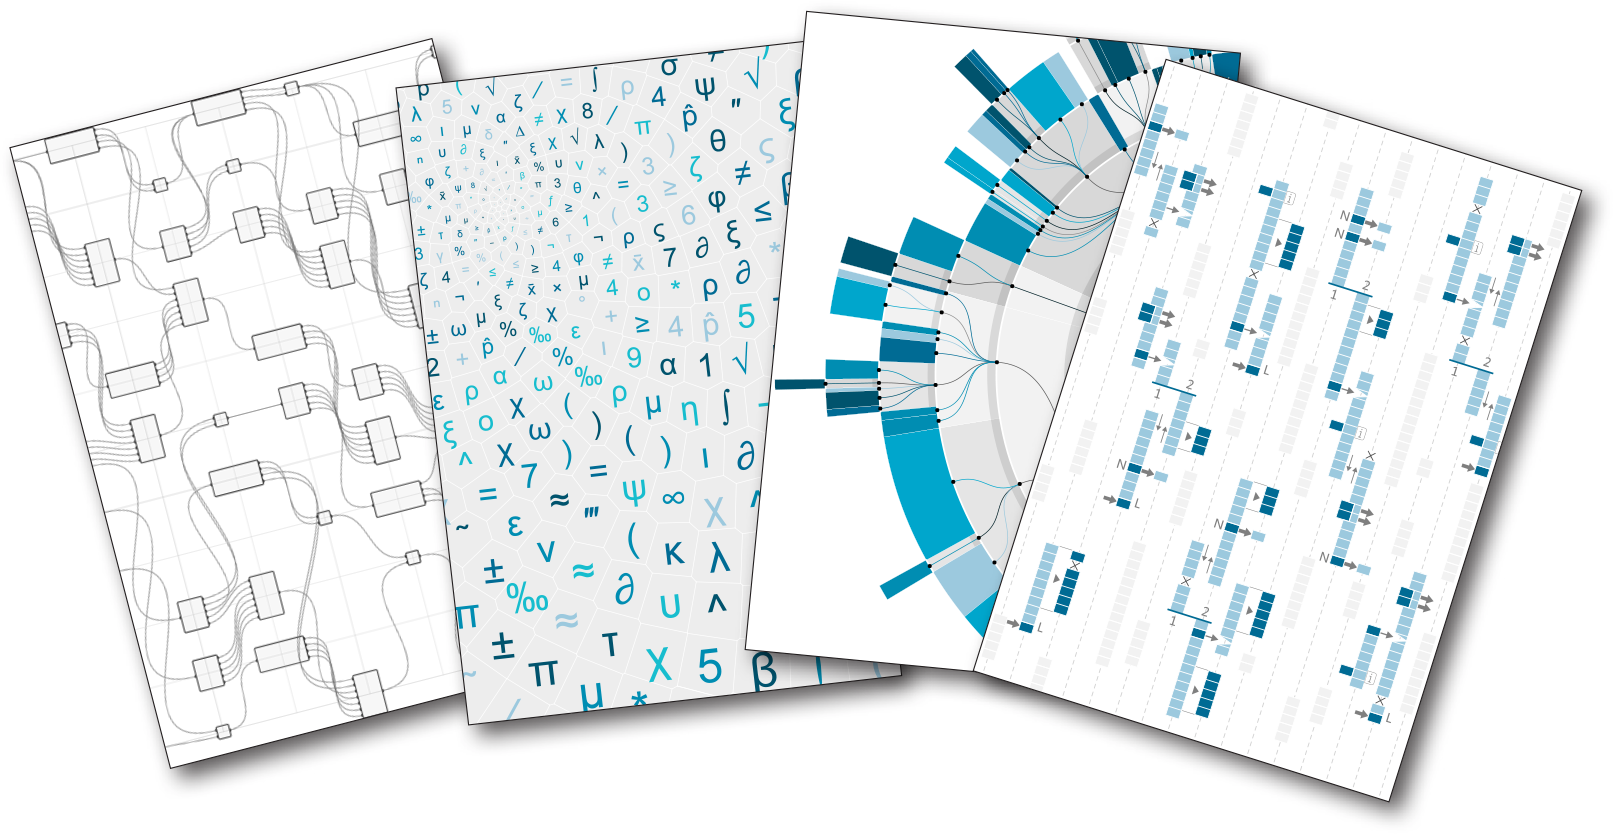
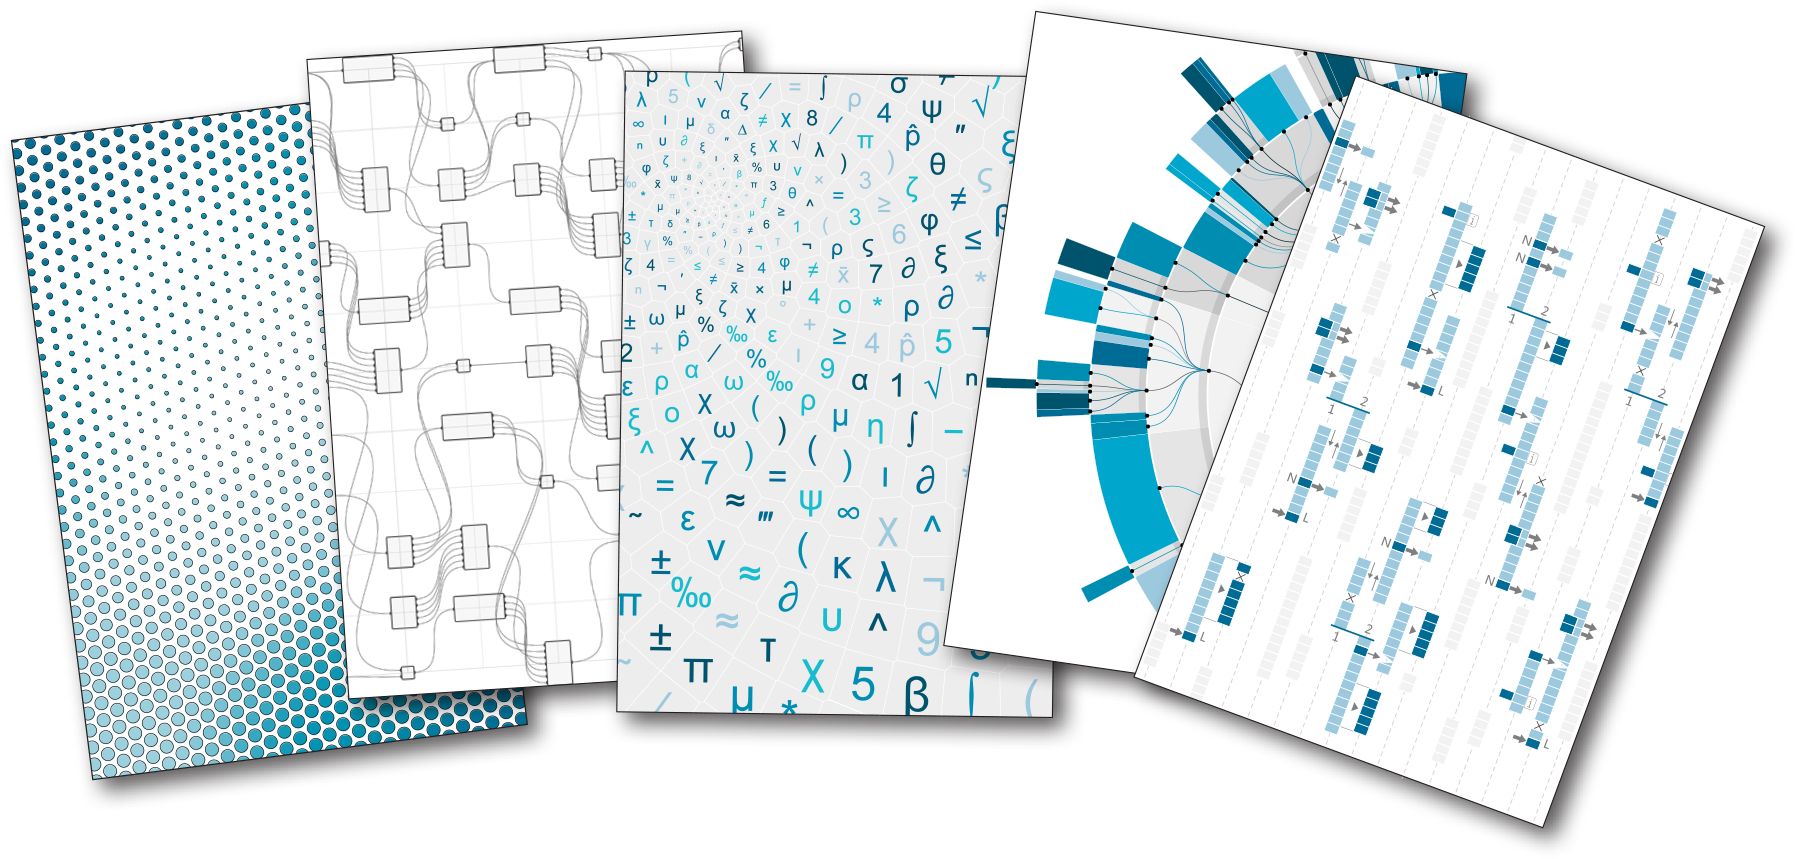
new hello grasshopper image

Changed region(s): [[0.0, 0.0312, 0.9919, 0.9664], [0.496, 0.0, 0.62, 0.0312]]

diff --git a/0-about/1-grasshopper-an-overview.md b/0-about/1-grasshopper-an-overview.md
@@ -1,12 +1,6 @@
 ## Grasshopper - an Overview
 
 
-TESTING
-here is a link to an html file that is not in SUMMARY.MD
-[LINK](test.html)
-TESTING
-
-
 #####Grasshopper is a visual programming editor developed by David Rutten at Robert McNeel & Associates. As a plug-in for Rhino3D, Grasshopper is integrated with the robust and versatile modeling environment used by creative professionals across a diverse range of fields, including architecture, engineering, product design, and more. In tandem, Grasshopper and Rhino offer us the opportunity to define precise parametric control over models, the capability to explore generative design workflows, and a platform to develop higher-level programming logic – all within an intuitive, graphical interface.
 
 The origins of Grasshopper can be traced to the functionality of Rhino3d
@@ -72,7 +66,7 @@ as when your definitions become more complex, adeptly managing the flow of
 data, the status of the “solver,” and what is previewed in the Rhino viewport will
 prevent many unwanted headaches.
 
-![IMAGE](flow.png)
+![IMAGE](images/flow.png)
 >Program flow from left to right
 
 As you begin first exploring Grasshopper or further building your skills, you have

diff --git a/1-foundations/1-1/0_hello-grasshopper.md b/1-foundations/1-1/0_hello-grasshopper.md
@@ -2,3 +2,4 @@
 
 #### Grasshopper is a graphical algorithm editor that is integrated with Rhino3D’s modeling tools. You use Grasshopper to design algorithms that then automate tasks in Rhino3D.
 
+![IMAGE](images/1-1/001_hello-grasshopper.png)
